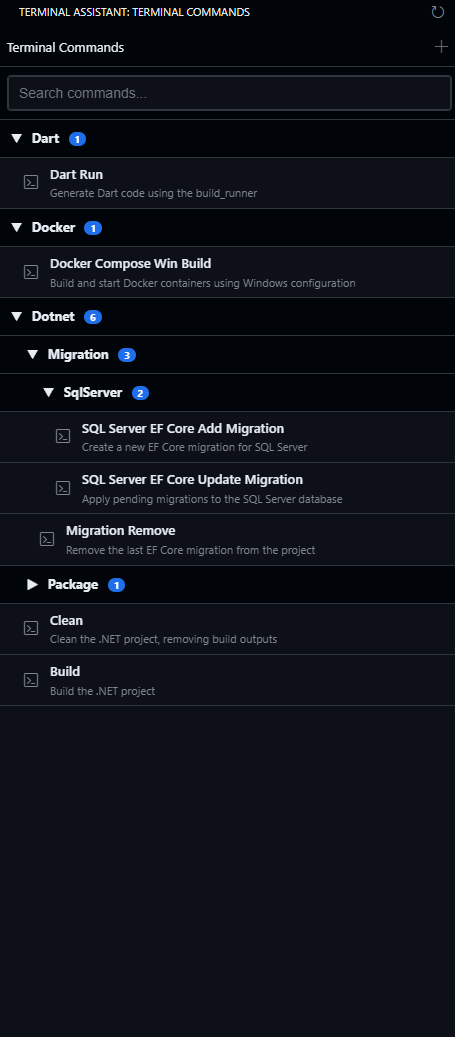
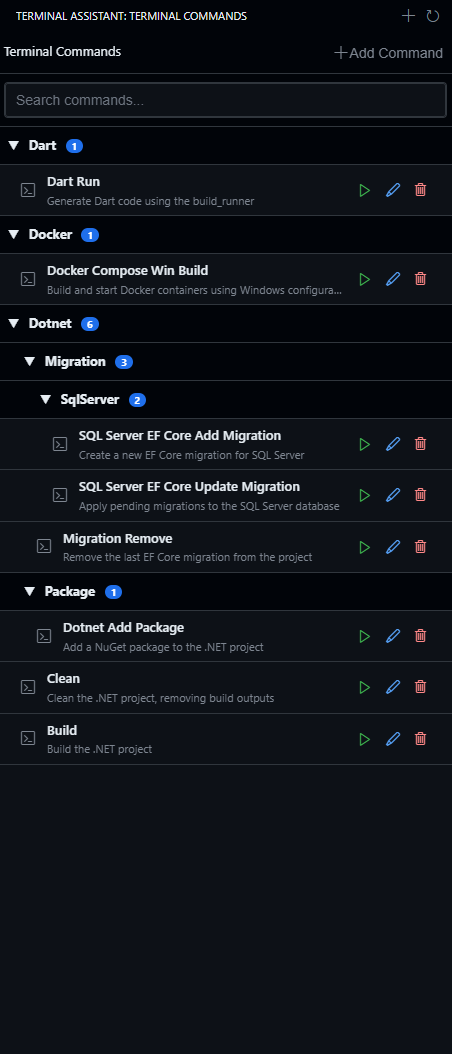
feat: update version to 1.2.0 and enhance terminal commands webview with improved button visibility and styling

diff --git a/src/terminalCommandsWebviewProvider.ts b/src/terminalCommandsWebviewProvider.ts
@@ -226,6 +226,7 @@ export class TerminalCommandsWebviewProvider implements vscode.WebviewViewProvid
                         border-bottom: 1px solid var(--vscode-panel-border);
                         align-items: center;
                         position: relative; /* Add position relative for pseudo-element */
+                        justify-content: space-between;
                     }
                     
                     .command-item::before {
@@ -251,6 +252,8 @@ export class TerminalCommandsWebviewProvider implements vscode.WebviewViewProvid
                     .command-content {
                         flex: 1;
                         overflow: hidden;
+                        min-width: 0; /* Allows text truncation to work properly */
+                        margin-right: 8px;
                     }
                     
                     .command-label {
@@ -269,35 +272,12 @@ export class TerminalCommandsWebviewProvider implements vscode.WebviewViewProvid
                     }
                     
                     .command-actions {
-                        display: none;
+                        display: flex !important;
                         align-items: center;
-                    }
-                    
-                    .command-item:hover .command-actions {
-                        display: flex;
-                    }
-                    
-                    .action-button {
-                        background: transparent;
-                        border: none;
-                        color: var(--vscode-icon-foreground);
-                        cursor: pointer;
-                        padding: 2px;
-                        opacity: 0.8;
-                        margin-left: 4px;
-                    }
-                    
-                    .action-button:hover {
-                        opacity: 1;
-                        background-color: var(--vscode-button-secondaryHoverBackground);
-                        border-radius: 3px;
-                    }
-                    
-                    .command-parameter {
-                        background-color: var(--vscode-editor-selectionBackground);
-                        color: var(--vscode-editor-selectionForeground);
-                        padding: 0 4px;
-                        border-radius: 3px;
+                        visibility: visible !important;
+                        opacity: 1 !important;
+                        gap: 4px;
+                        min-width: 90px; /* Ensure buttons have enough space */
                     }
                     
                     .toolbar {
@@ -344,13 +324,55 @@ export class TerminalCommandsWebviewProvider implements vscode.WebviewViewProvid
                     .icon-margin {
                         margin-right: 5px; 
                     }
+
+                    .primary-button {
+                        background-color: var(--vscode-button-background);
+                        color: var(--vscode-button-foreground);
+                        padding: 4px 8px;
+                        border-radius: 3px;
+                        border: none;
+                        cursor: pointer;
+                        font-weight: 500;
+                    }
+
+                    .primary-button:hover {
+                        background-color: var(--vscode-button-hoverBackground);
+                    }
+
+                    .action-button {
+                        background: transparent;
+                        border: none;
+                        cursor: pointer;
+                        padding: 4px;
+                        color: var(--vscode-icon-foreground);
+                        border-radius: 3px;
+                        display: flex;
+                        align-items: center;
+                        justify-content: center;
+                    }
+                    
+                    .action-button:hover {
+                        background-color: var(--vscode-toolbar-hoverBackground, rgba(90, 93, 94, 0.31));
+                    }
+                    
+                    .run-btn {
+                        color: var(--vscode-terminal-ansiGreen, #89d185);
+                    }
+                    
+                    .edit-btn {
+                        color: var(--vscode-terminal-ansiBlue, #2472c8);
+                    }
+                    
+                    .remove-btn {
+                        color: var(--vscode-terminal-ansiRed, #f14c4c);
+                    }
                 </style>
             </head>
             <body>
                 <div class="toolbar">
                     <div>Terminal Commands</div>
-                    <button class="action-button" id="addCommandBtn" title="Add Command">
-                        <i class="codicon codicon-add"></i>
+                    <button class="action-button primary-button" id="addCommandBtn" title="Add Command">
+                        <i class="codicon codicon-add"></i> Add Command
                     </button>
                 </div>
                 
